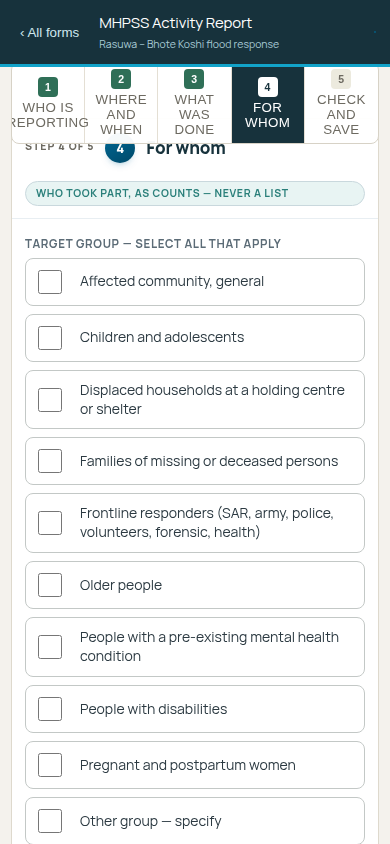
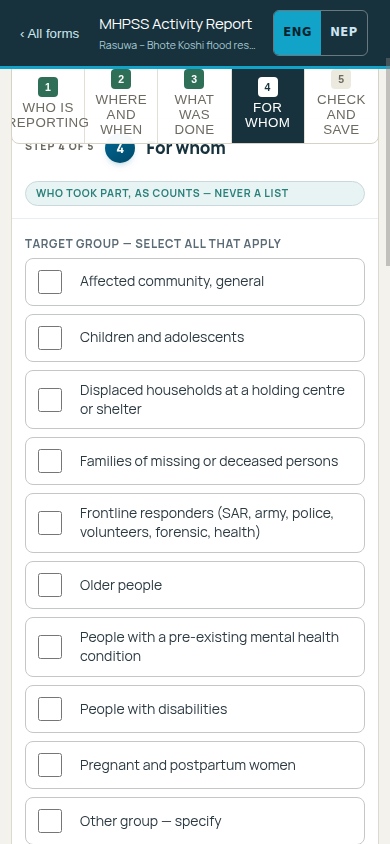
fix: restore the language switch and generate B2 from a checkable build
Two defects found by end-to-end verification:

1. The B2 header hard-coded id="i18nbar" for the language slot. i18n.js
   skips mounting the ENG/NEP switch when that id already exists, so the
   page shipped with no language control at all. The slot is now
   [data-i18n-toggle], which is the convention the engine looks for.

2. The page was assembled ad hoc, which is how the slot bug slipped in and
   how an earlier build silently inherited the frozen baseline instead of
   the reviewed page. design-preview/build_b2.py now derives the page from
   a named commit and refuses to write it unless the <form> block is
   byte-identical, ids are unique, the language slot is a toggle slot, and
   every runtime asset is present.

Also verified in browser: chip arrow-key roving, picker open/Escape,
Nepali label rendering with the untranslated-safety-copy flag, and
reduced-motion. Contract tests 26 (B2) + 18 (Direction B) pass.

Changed region(s): [[0.0, 0.0, 1.0, 0.3389]]

diff --git a/5ws-report-b2.html b/5ws-report-b2.html
@@ -13,7 +13,7 @@
 <link rel="stylesheet" href="../hub/assets/app.css">
 <link rel="stylesheet" href="../hub/assets/design.css">
 <link rel="stylesheet" href="../hub/assets/form.css">
-<link rel="stylesheet" href="design-preview/5ws-preview.css?h=d9feaeb4ad">
+<link rel="stylesheet" href="design-preview/5ws-preview.css?h=7ef0576126">
 <link rel="manifest" href="manifest.webmanifest">
 <meta name="theme-color" content="#1d1d1b">
 <link rel="apple-touch-icon" href="icons/apple-touch-icon.png">
@@ -25,7 +25,7 @@
 <body class="fx iu" data-iu-preview="B2">
 
 <div class="iu-previewbar" role="note">
-  <b>B2 Institutional App — design preview.</b>
+  <b>B2 Institutional App &mdash; design preview.</b>
   Demonstration / non-identifiable data only. New interface copy is English pending human-reviewed Nepali wording.
 </div>
 
@@ -35,7 +35,10 @@
     <div class="iu-brand">MHPSS Activity Report</div>
     <div class="iu-brandsub">Rasuwa &ndash; Bhote Koshi flood response</div>
   </div>
-  <div class="iu-lang" id="i18nbar"></div>
+  <!-- The bilingual engine mounts its ENG / NEP switch into this slot. It must
+       stay a [data-i18n-toggle] slot and must NOT be given id="i18nbar": the
+       engine skips mounting when an element with that id already exists. -->
+  <div class="iu-lang" data-i18n-toggle></div>
 </header>
 
 <main class="iu-main">

diff --git a/design-preview/5ws-preview.css b/design-preview/5ws-preview.css
@@ -81,26 +81,32 @@ body.iu .wrap {
   text-overflow: ellipsis;
 }
 .iu-lang {
-  display: flex;
-  gap: 4px;
+  display: inline-flex;
+  align-items: center;
 }
-.iu-lang button,
-#i18nbar button {
+/* The bilingual engine injects #i18nbar into the [data-i18n-toggle] slot. */
+.iu-top #i18nbar,
+.iu-lang #i18nbar {
+  display: inline-flex;
+  border: 1px solid rgba(255, 255, 255, 0.35);
+  border-radius: 6px;
+  overflow: hidden;
+}
+.iu-top #i18nbar button,
+.iu-lang #i18nbar button {
   min-width: 46px !important;
   min-height: 44px !important;
   padding: 6px 9px !important;
-  border: 1px solid rgba(255, 255, 255, 0.4) !important;
-  border-radius: 6px !important;
+  border: 0 !important;
+  border-radius: 0 !important;
   background: transparent !important;
-  color: #fff !important;
+  color: #cfe6f2 !important;
   font: 800 11px/1 inherit !important;
   cursor: pointer;
 }
-.iu-lang button[aria-pressed="true"],
-.iu-lang button.on,
-#i18nbar button[aria-pressed="true"] {
+.iu-top #i18nbar button[aria-pressed="true"],
+.iu-lang #i18nbar button[aria-pressed="true"] {
   background: #12a3c9 !important;
-  border-color: #12a3c9 !important;
   color: #06222b !important;
 }
 

diff --git a/design-preview/build_b2.py b/design-preview/build_b2.py
@@ -1,0 +1,164 @@
+#!/usr/bin/env python3
+"""Build the B2 "Institutional App" preview page from the committed 5Ws page.
+
+Why a builder instead of hand-editing HTML:
+  The B2 preview must never drift from the real form. Deriving the page from a
+  specific commit makes that guarantee mechanical — the <form> block and every
+  runtime <script> are copied byte-for-byte, so no field id, name, value list,
+  listener or submit contract can be altered by accident.
+
+What it changes:
+  · the surrounding chrome (header, step rail, status strip) — presentation only
+  · the stylesheet link and one extra script tag for the preview layer
+  · content-hashed asset URLs, so a browser can never serve a stale preview asset
+
+What it must never change:
+  · the <form> block
+  · the page's own <script> tags (store.js, fb.js, codes.js, i18n.js, pwa.js …)
+  · the Save/Clear action row (it is moved into the last screen by the preview
+    script at runtime, not rewritten here)
+
+Usage:  python3 design-preview/build_b2.py [git-ref]
+"""
+
+from __future__ import annotations
+
+import hashlib
+import re
+import subprocess
+import sys
+from pathlib import Path
+
+REPO = Path(__file__).resolve().parent.parent
+DP = REPO / "design-preview"
+OUT = REPO / "5ws-report-b2.html"
+SOURCE = "5ws-report.html"
+
+
+def git_show(path: str, ref: str) -> str:
+    return subprocess.run(
+        ["git", "show", f"{ref}:{path}"], cwd=REPO,
+        capture_output=True, text=True, check=True,
+    ).stdout
+
+
+def stamp(name: str) -> str:
+    """Content-hashed URL: changes whenever the file changes, so no stale asset."""
+    h = hashlib.sha256((DP / name).read_bytes()).hexdigest()[:10]
+    return f"design-preview/{name}?h={h}"
+
+
+BODY = """<body class="fx iu" data-iu-preview="B2">
+
+<div class="iu-previewbar" role="note">
+  <b>B2 Institutional App &mdash; design preview.</b>
+  Demonstration / non-identifiable data only. New interface copy is English pending human-reviewed Nepali wording.
+</div>
+
+<header class="iu-top">
+  <button type="button" class="iu-back" data-iu-back>&#8249; All forms</button>
+  <div class="iu-brandwrap">
+    <div class="iu-brand">MHPSS Activity Report</div>
+    <div class="iu-brandsub">Rasuwa &ndash; Bhote Koshi flood response</div>
+  </div>
+  <!-- The bilingual engine mounts its ENG / NEP switch into this slot. It must
+       stay a [data-i18n-toggle] slot and must NOT be given id="i18nbar": the
+       engine skips mounting when an element with that id already exists. -->
+  <div class="iu-lang" data-i18n-toggle></div>
+</header>
+
+<main class="iu-main">
+  <div class="iu-sync" id="iuSyncStatus" role="status" aria-live="polite" aria-atomic="true" data-state="waiting">
+    <b>Checking device and connection state&hellip;</b>
+    <span>Checking device and connection state&hellip;</span>
+  </div>
+
+__FORM__
+
+__ACTIONS__
+
+  <section class="iu-saved">
+__SAVED__
+  </section>
+</main>
+
+<script src="__STATUS__"></script>
+__SCRIPTS__
+</body>
+</html>
+"""
+
+
+def build(ref: str | None = None) -> Path:
+    ref = ref or subprocess.run(
+        ["git", "rev-parse", "HEAD"], cwd=REPO,
+        capture_output=True, text=True, check=True,
+    ).stdout.strip()
+
+    src = git_show(SOURCE, ref)
+
+    head = src[: src.index("<body")]
+    m = re.search(r'<form id="f"[\s\S]*?</form>', src)
+    if not m:
+        raise SystemExit("could not locate the <form id=\"f\"> block")
+    form = m.group(0)
+    tail = src[m.end(): src.index("</body>")]
+
+    # Direction B's preview layer is replaced, not inherited.
+    head = re.sub(r'\n<style id="institutional-utility-preview">[\s\S]*?</style>\n', "\n", head)
+    tail = re.sub(r'<script id="institutional-utility-status">[\s\S]*?</script>\n?', "", tail)
+
+    # Keep the page's own runtime scripts untouched.
+    cut = tail.index("<script")
+    tail_markup, tail_scripts = tail[:cut], tail[cut:]
+
+    act_m = re.search(r'<div class="actions">[\s\S]*?</div>\s*', tail_markup)
+    actions = act_m.group(0) if act_m else ""
+    saved = tail_markup[act_m.end():] if act_m else tail_markup
+
+    head = head.replace(
+        '<link rel="stylesheet" href="../hub/assets/form.css">',
+        '<link rel="stylesheet" href="../hub/assets/form.css">\n'
+        f'<link rel="stylesheet" href="{stamp("5ws-preview.css")}">',
+    ).replace(
+        "</head>",
+        f'<script src="{stamp("5ws-preview-core.js")}"></script>\n</head>',
+    )
+
+    html = (
+        head
+        + BODY.replace("__FORM__", form)
+              .replace("__ACTIONS__", actions)
+              .replace("__SAVED__", saved)
+              .replace("__SCRIPTS__", tail_scripts)
+              .replace("__STATUS__", stamp("5ws-preview-status.js"))
+    )
+    OUT.write_text(html, encoding="utf-8")
+
+    # --- self-checks: refuse to write a page that violated the contract -------
+    new = OUT.read_text(encoding="utf-8")
+    m2 = re.search(r'<form id="f"[\s\S]*?</form>', new)
+    if not m2 or hashlib.sha256(form.encode()).hexdigest() != hashlib.sha256(m2.group(0).encode()).hexdigest():
+        raise SystemExit("BUILD FAILED: the <form> block is not byte-identical")
+    ids = re.findall(r'\bid="([^"]+)"', new)
+    dupes = sorted({i for i in ids if ids.count(i) > 1})
+    if dupes:
+        raise SystemExit(f"BUILD FAILED: duplicate ids {dupes}")
+    # The language slot must be a [data-i18n-toggle] slot, never id="i18nbar":
+    # the engine skips mounting when that id already exists. Inspect elements
+    # only, so an explanatory comment cannot satisfy or trip this check.
+    if re.search(r'<[a-zA-Z][^>]*\bid="i18nbar"', new):
+        raise SystemExit("BUILD FAILED: the language slot must not own id=i18nbar")
+    if not re.search(r'<[a-zA-Z][^>]*\bdata-i18n-toggle\b', new):
+        raise SystemExit("BUILD FAILED: no [data-i18n-toggle] slot for the language switch")
+    for asset in ("codes.js", "store.js", "fb.js", "i18n.js", "pwa.js"):
+        if asset not in new:
+            raise SystemExit(f"BUILD FAILED: runtime asset {asset} missing")
+
+    return OUT
+
+
+if __name__ == "__main__":
+    ref = sys.argv[1] if len(sys.argv) > 1 else None
+    p = build(ref)
+    print(f"built {p.relative_to(REPO)} from {ref or 'HEAD'}")

diff --git a/design-preview/test_b2_preview.py b/design-preview/test_b2_preview.py
@@ -13,6 +13,7 @@ from __future__ import annotations
 import hashlib
 import re
 import subprocess
+import sys
 import unittest
 from pathlib import Path
 
@@ -221,6 +222,33 @@ class B2PreviewContractTest(unittest.TestCase):
     def test_repo_text_setting_rule_is_respected(self) -> None:
         self.assertNotIn("overflow-wrap: anywhere", self.css)
         self.assertNotIn("overflow-wrap:anywhere", self.css)
+
+    # -------------------------------------------------------- build & language
+    def test_language_slot_is_a_toggle_slot_not_a_reserved_id(self) -> None:
+        """i18n.js skips mounting the ENG/NEP switch when id="i18nbar" exists.
+
+        Giving the slot that id therefore removed the language switch entirely
+        from the page. The slot must be [data-i18n-toggle].
+        """
+        import re as _re
+        self.assertRegex(self.b2, r'<[a-zA-Z][^>]*\bdata-i18n-toggle\b')
+        self.assertIsNone(
+            _re.search(r'<[a-zA-Z][^>]*\bid="i18nbar"', self.b2),
+            "the language slot must not own id=i18nbar",
+        )
+
+    def test_build_script_reproduces_the_committed_page(self) -> None:
+        """The page is generated, so a rebuild must be deterministic."""
+        before = self.b2
+        subprocess.run([sys.executable, "design-preview/build_b2.py"], cwd=REPO,
+                       capture_output=True, text=True, check=True)
+        after = (REPO / "5ws-report-b2.html").read_text(encoding="utf-8")
+        self.assertEqual(before, after, "rebuilding the page produced a different file")
+
+    def test_build_script_guards_the_form_block(self) -> None:
+        src = (REPO / "design-preview" / "build_b2.py").read_text(encoding="utf-8")
+        self.assertIn("is not byte-identical", src)
+        self.assertIn("duplicate ids", src)
 
 
 if __name__ == "__main__":
